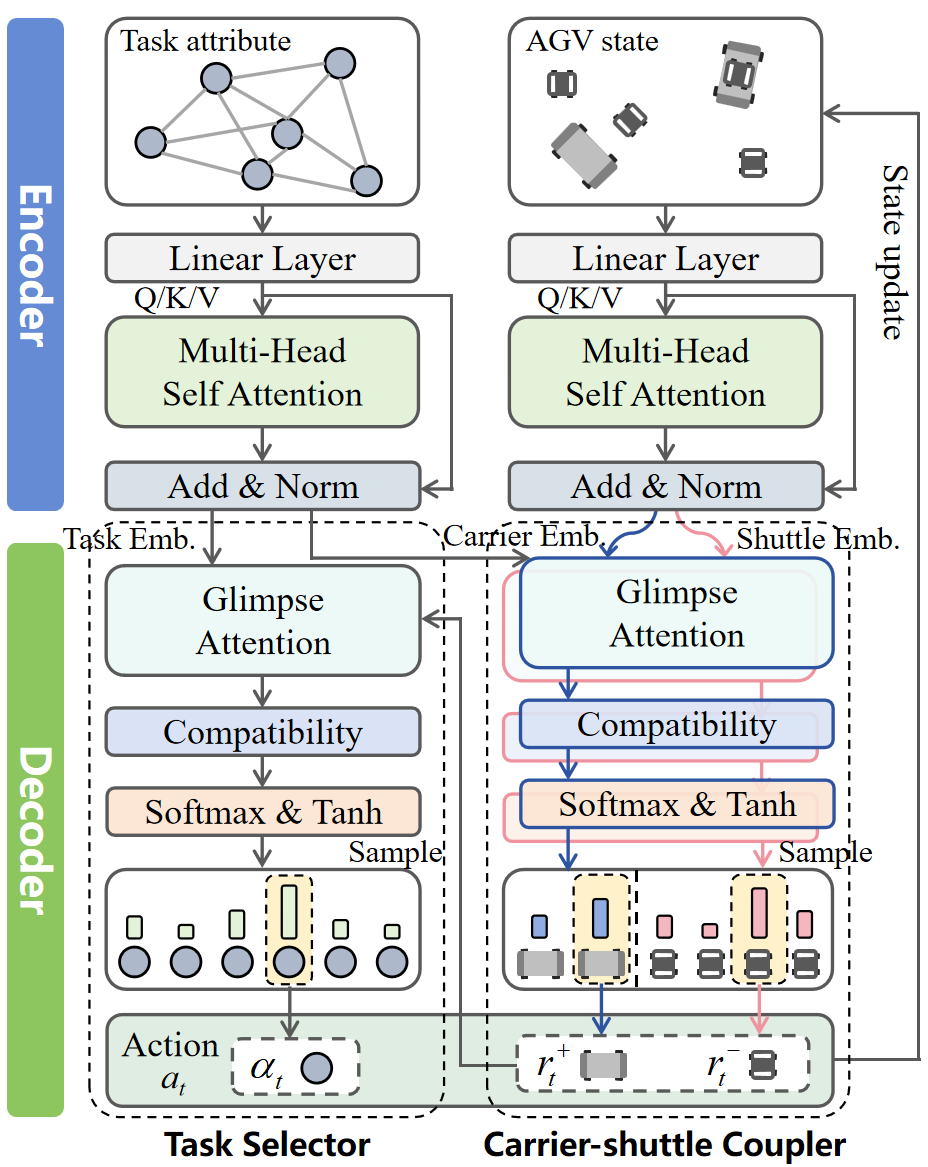
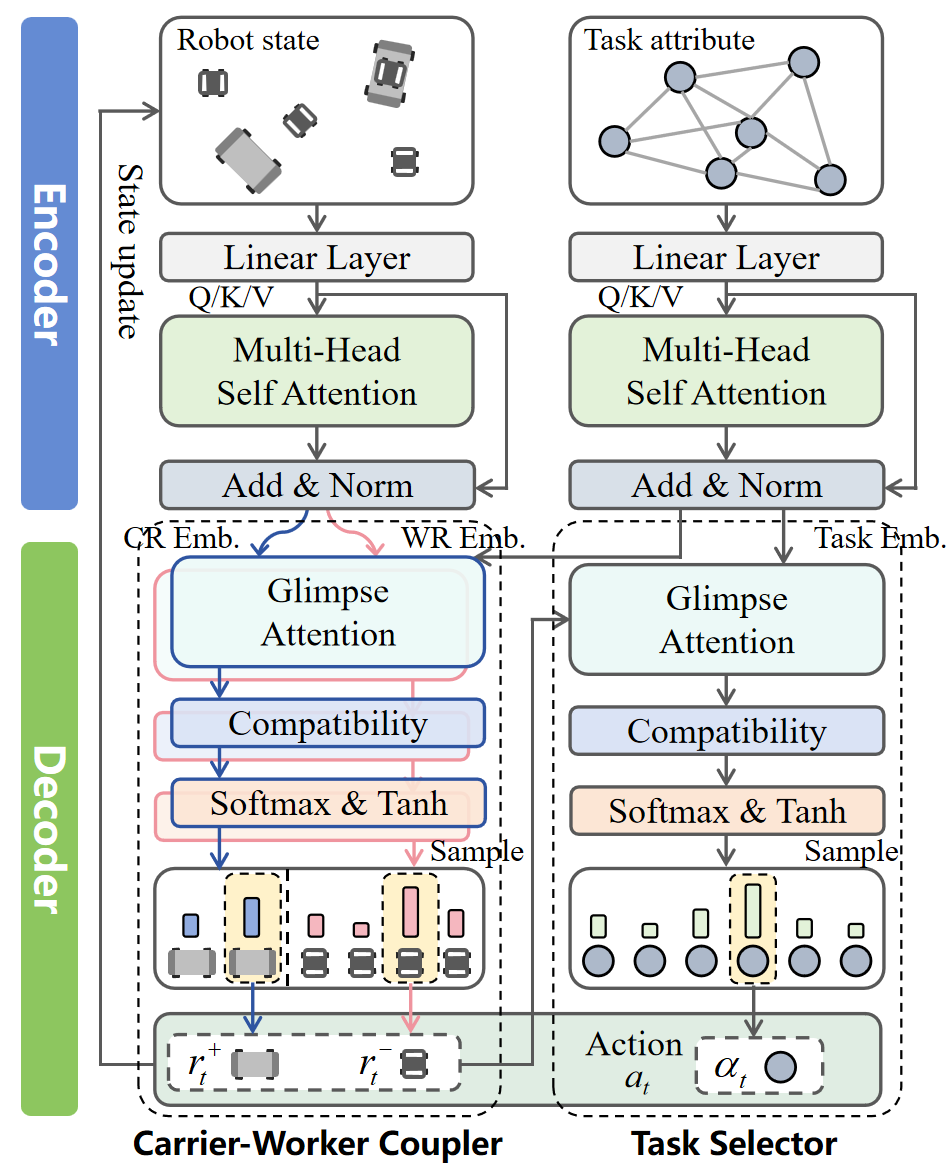
MRS

diff --git a/Baseline/Util/parameter_ahasp.py b/Baseline/Util/parameter_ahasp.py
@@ -1,6 +1,6 @@
 class paramet_ahasp:
     """
-    Configuration parameters for the AHASP (Carrier-Shuttle System).
+    Configuration parameters for the AHASP (Carrier-Worker System).
     """
 
     # ==========================================

diff --git a/README.md b/README.md
@@ -1,13 +1,15 @@
 <div align="center">
 
-# HAC-Net: A Transformer-Based Deep Reinforcement Learning Framework for Scheduling Coupled Heterogeneous AGV Systems
+# MaRS-Net: A Transformer-Based Deep Reinforcement Learning for Cooperative Scheduling in Marsupial Robotic Systems
 
 [![License: MIT](https://img.shields.io/badge/License-MIT-yellow.svg)](https://opensource.org/licenses/MIT)
 [![Python](https://img.shields.io/badge/Python-3.8%2B-blue)](https://www.python.org/)
 [![PyTorch](https://img.shields.io/badge/PyTorch-1.7%2B-orange)](https://pytorch.org/)
 [![Framework](https://img.shields.io/badge/Framework-DRL-green)](https://github.com/)
 
-**Official implementation of the paper: "HAC-Net: A Transformer-Based Deep Reinforcement Learning for Scheduling Coupled Heterogeneous AGV Systems"**
+**Official implementation of the paper: "MaRS-Net: A Transformer-Based Deep Reinforcement Learning for Cooperative Scheduling in Marsupial Robotic Systems"**
+
+*Submitted to IEEE Robotics and Automation Letters (RA-L)*
 
 </div>
 
@@ -15,62 +17,63 @@
 
 ## 📖 Introduction
 
+**Marsupial Robotic Systems (MRS)** are increasingly deployed in complex missions by pairing large mobile carriers with smaller deployable agents. While combining global mobility with specialized local functions enhances versatility, coordinating such tightly coupled systems introduces significant challenges.
 
-Heterogeneous robot systems are increasingly adopted in modern industry due to their operational flexibility. However, coordinating such systems introduces substantial complexity. Motivated by real-world battery manufacturing processes, this repository presents **HAC-Net**, a novel framework designed to solve the **Coupled Heterogeneous AGV Scheduling Problem (CHASP)**.
+This repository presents **MaRS-Net**, a novel Deep Reinforcement Learning (DRL) framework designed to solve the **Cooperative Marsupial Scheduling Problem (CMSP)**.
 
-The problem characterizes a system comprised of two complementary AGV types—**Carriers** (transport capability) and **Shuttles** (handling capability). These agents must dynamically **couple** and **decouple** to execute complex transport tasks.
+The system comprises two heterogeneous robot types:
+* **Carrier Robots (CRs):** Provide global inter-station transport and mobility.
+* **Worker Robots (WRs):** Focus on intra-station execution and localized processing.
 
-As illustrated below, the cooperation follows a strictly synchronized four-stage cycle: **Couple $\to$ Pickup $\to$ Delivery $\to$ Decouple**.
+These agents must dynamically **couple** and **decouple** to execute tasks. As illustrated below, the collaboration follows a strictly synchronized four-stage cycle: **Docking $\to$ Fetching $\to$ Transfer $\to$ Undocking**.
 
 <div align="center">
-  <img src="media/Workflow.png" alt="Cooperative Workflow" width="60%">
+  <img src="media/Workflow.png" alt="Cooperative Workflow of Carrier-Worker System" width="60%">
   <br>
-  <em>Figure 1: The cooperative workflow of the Carrier-Shuttle system.</em>
+  <em>Figure 1: The cooperative workflow of the Carrier-Worker MRS.</em>
 </div>
 
-**HAC-Net** formulates this intricate interaction as a Markov Decision Process (MDP). It leverages a Transformer-based encoder-decoder architecture to autoregressively assemble Carrier-Shuttle pairs and assign tasks, thereby resolving synchronization constraints and preventing deadlocks effectively.
+**MaRS-Net** formulates this intricate interaction as a Markov Decision Process (MDP). It leverages a Transformer-based encoder-decoder architecture to autoregressively assemble **Carrier-Worker pairs** and assign tasks, thereby resolving strict spatiotemporal synchronization constraints and preventing deadlocks effectively.
 
 ---
 
 ## 🎥 Visualization & Demo
 
-We provide a visualization of the Carrier-Shuttle collaboration within a simulated factory environment. The following demo showcases **4 Carriers** and **8 Shuttles** collaborating to execute **20 tasks**.
+We provide a visualization of the Carrier-Worker collaboration within a simulated industrial environment. The demo showcases **4 CRs** and **8 WRs** collaborating to execute a sequence of tasks.
 
-
-> **Note:** If the video above does not render, please view `media/Carrier_shutltle_cooperation.mp4` locally.
+> **Note:** If the video above does not render, please view `media/Carrier_Worker_cooperation.mp4` locally.
 
 **Legend:**
 
-- <span style="display:inline-block;width:14px;height:14px;background:#ff4d4f;border:1px solid #000;margin-right:4px;"></span> **Source Nodes (Red):** Task origination points.
-- <span style="display:inline-block;width:14px;height:14px;background:#52c41a;border:1px solid #000;margin-right:4px;"></span> **Destination Nodes (Green):** Designated locations for AGV coupling/decoupling.
-- <span style="display:inline-block;width:14px;height:14px;background:#bfbfbf;border:1px solid #000;margin-right:4px;"></span> **Production Chambers (Grey):** Areas where Shuttles operate independently.
-- <span style="display:inline-block;width:14px;height:14px;background:#ffffff;border:1px solid #000;margin-right:4px;"></span> **Aisle (White):** Navigable paths for Carriers.
-
+- <span style="display:inline-block;width:14px;height:14px;background:#ff4d4f;border:1px solid #000;margin-right:4px;"></span> **Source Nodes (Red):** Task fetch locations.
+- <span style="display:inline-block;width:14px;height:14px;background:#52c41a;border:1px solid #000;margin-right:4px;"></span> **Destination Nodes (Green):** Designated locations for undocking and processing.
+- <span style="display:inline-block;width:14px;height:14px;background:#bfbfbf;border:1px solid #000;margin-right:4px;"></span> **Processing Chambers (Grey):** Areas where WRs operate independently.
+- <span style="display:inline-block;width:14px;height:14px;background:#ffffff;border:1px solid #000;margin-right:4px;"></span> **Aisle (White):** Navigable paths for Carrier Robots.
 
 ---
 
 ## 🧠 Model Architecture
 
-HAC-Net employs a **Hierarchical Transformer-based Encoder-Decoder** architecture tailored to the coupling constraints of heterogeneous agents.
+MaRS-Net employs a **Hierarchical Transformer-based Encoder-Decoder** architecture tailored to the coupling constraints of heterogeneous agents.
 
 <div align="center">
-  <img src="media/Framework.png" alt="HAC-Net Framework" width="50%">
+  <img src="media/Framework.png" alt="MaRS-Net Framework" width="50%">
   <br>
-  <em>Figure 2: Framework of the proposed HAC-Net policy network.</em>
+  <em>Figure 2: Framework of the proposed MaRS-Net policy network.</em>
 </div>
-
 
 ### The framework comprises two core mechanisms:
 
 ### 1. Dual-Stream Encoder
 * **Task Stream:** Encodes static task attributes (e.g., source/destination coordinates, due times) via Multi-Head Self-Attention layers.
-* **AGV Stream:** Encodes dynamic AGV states (e.g., current location $l_t$, availability time $\tau_t$). These embeddings are updated at each decision step to reflect the real-time environment status.
+* **Robot Stream:** Encodes dynamic robot states (e.g., current location $L_r^t$, availability time $T_r^t$). These embeddings are re-computed at each decision step to reflect the real-time fleet status.
 
 ### 2. Hierarchical Decoder
-* **Carrier-Shuttle Coupler:** Selects a compatible Carrier ($r^+$) and Shuttle ($r^-$) pair based on the fused embeddings to form a collaborative unit.
-* **Task Selector:** Conditioned on the selected pair, this module assigns the optimal task ($\alpha_t$) to the unit.
+The decoder adopts a **"Pair-First, Task-Second"** strategy:
+* **Carrier-Worker Coupler:** Sequentially selects a compatible Carrier Robot ($r^+$) and a Worker Robot ($r^-$) to form a collaborative execution pair ($\mathcal{K}_t$).
+* **Task Selector:** Conditioned on the formed pair $\mathcal{K}_t$, this module identifies the optimal task ($\alpha_t$) to execute.
 
-This hierarchical approach ensures that the generated schedules inherently satisfy the physical and temporal synchronization constraints of the CHASP.
+This hierarchical approach ensures that the generated schedules inherently satisfy the physical coupling and temporal synchronization requirements of the MRS.
 
 ---
 
